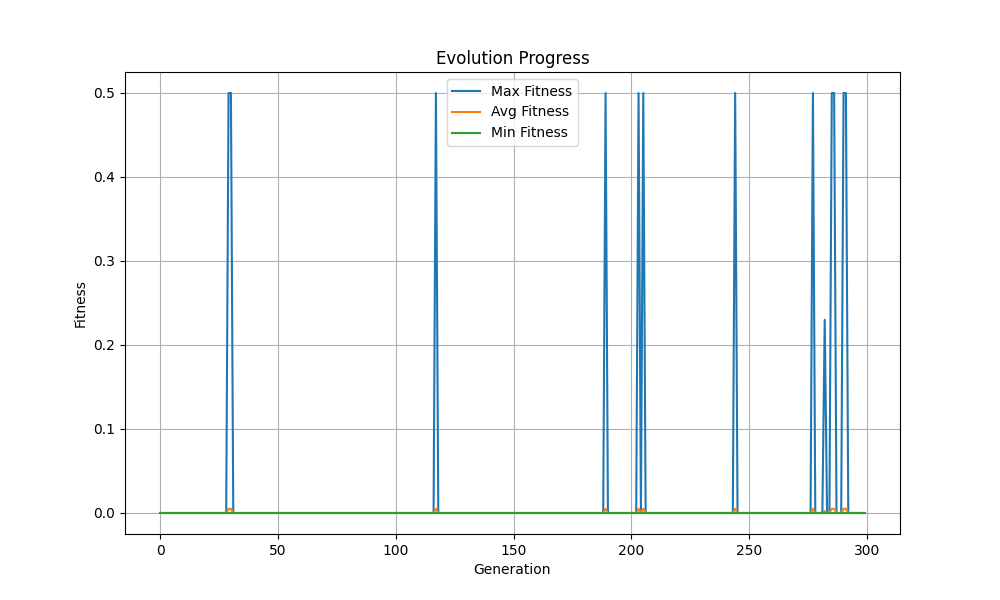
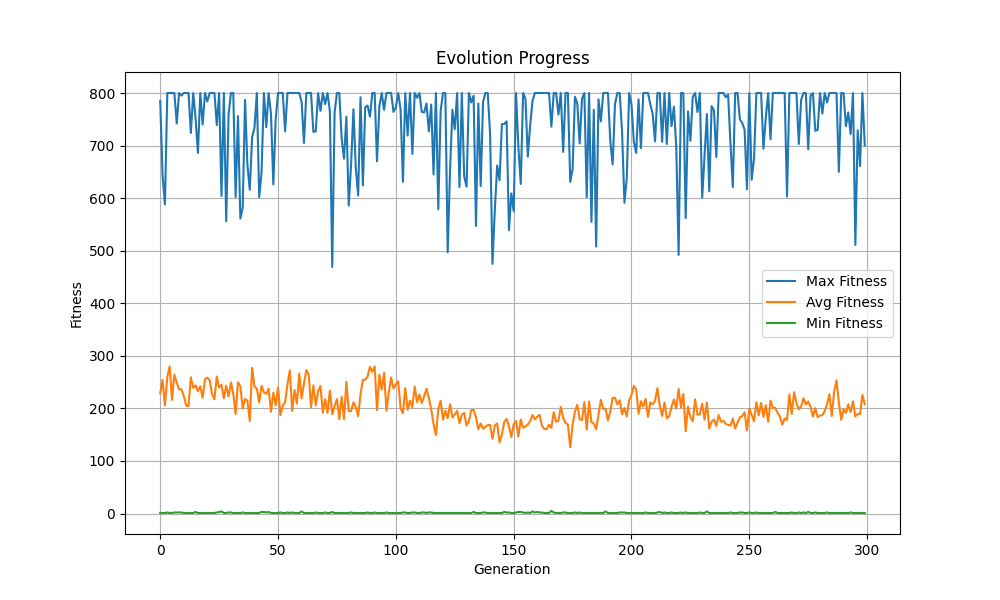
Added markers for tracking trajectory and fixed the movement mechanism

diff --git a/core/simulator.py b/core/simulator.py
@@ -45,7 +45,7 @@ class Simulator:
         self.logger = Logger()
         
         # Camera tracking for following animats in unbounded environment
-        self.camera_offset = [0.0, 0.0]  # Camera offset for following animats
+        self.camera_offset = [0.0, 0.0]
         
         # Initialize pygame if not headless
         if not self.headless:
@@ -76,6 +76,7 @@ class Simulator:
             'min_fitness': []
         }
         self.trajectory_to_draw = [] # For drawing agent trajectory
+        self.capture_markers = []  # For marking food/water capture events [(x, y, type), ...]
         
     def initialize_ga(self):
         """Initialize the genetic algorithm."""
@@ -135,6 +136,24 @@ class Simulator:
                     scaled_points.append((screen_px, screen_py))
             if len(scaled_points) >= 2:
                 pygame.draw.lines(self.screen, (180, 180, 180), False, scaled_points, 2) # Light grey color, 2 pixels thick
+        
+        # Draw capture markers (food/water capture events)
+        for marker in self.capture_markers:
+            marker_x, marker_y, marker_type = marker
+            # Apply camera offset to marker positions
+            screen_mx = int((marker_x - self.camera_offset[0]) * scale_x)
+            screen_my = int((marker_y - self.camera_offset[1]) * scale_y)
+            
+            # Only draw markers that are visible on screen
+            if -20 <= screen_mx <= self.width + 20 and -20 <= screen_my <= self.height + 20:
+                if marker_type == EntityType.FOOD:
+                    # Draw a green X mark for food capture
+                    pygame.draw.line(self.screen, (0, 200, 0), (screen_mx - 5, screen_my - 5), (screen_mx + 5, screen_my + 5), 3)
+                    pygame.draw.line(self.screen, (0, 200, 0), (screen_mx - 5, screen_my + 5), (screen_mx + 5, screen_my - 5), 3)
+                elif marker_type == EntityType.WATER:
+                    # Draw a blue X mark for water capture
+                    pygame.draw.line(self.screen, (0, 0, 200), (screen_mx - 5, screen_my - 5), (screen_mx + 5, screen_my + 5), 3)
+                    pygame.draw.line(self.screen, (0, 0, 200), (screen_mx - 5, screen_my + 5), (screen_mx + 5, screen_my - 5), 3)
         
         # Render entities
         for entity in self.environment.entities:
@@ -589,7 +608,7 @@ class Simulator:
         self.simulation_time = 0
         last_time = time.time()
         self.trajectory_to_draw = [] # Clear previous trajectory
-        MAX_TRAJECTORY_POINTS = 500 # Max points to store for trajectory
+        self.capture_markers = []  # Clear previous capture markers
         
         while self.is_running:
             # Calculate delta time
@@ -607,14 +626,25 @@ class Simulator:
             if not self.handle_events():
                 self.is_running = False
                 break
+            
+            # Store previous battery levels to detect capture events
+            prev_battery1 = animat.batteries[0]
+            prev_battery2 = animat.batteries[1]
                 
             # Update simulation
             self.update(dt)
             
-            # Add current animat position to trajectory
+            # Check for food/water capture events by detecting battery level changes
+            if animat.active and (animat.batteries[0] > prev_battery1 or animat.batteries[1] > prev_battery2):
+                if animat.batteries[0] > prev_battery1:
+                    # Food was captured (battery 1 recharged)
+                    self.capture_markers.append((animat.position[0], animat.position[1], EntityType.FOOD))
+                if animat.batteries[1] > prev_battery2:
+                    # Water was captured (battery 2 recharged)
+                    self.capture_markers.append((animat.position[0], animat.position[1], EntityType.WATER))
+            
+            # Add current animat position to trajectory (no length limit now)
             if animat.active:
-                if len(self.trajectory_to_draw) >= MAX_TRAJECTORY_POINTS:
-                    self.trajectory_to_draw.pop(0) # Remove oldest point
                 self.trajectory_to_draw.append(tuple(animat.position))
 
             # Render
@@ -693,7 +723,7 @@ class Simulator:
         self.simulation_time = 0
         last_time = time.time()
         self.trajectory_to_draw = []  # Clear previous trajectory
-        MAX_TRAJECTORY_POINTS = 500
+        self.capture_markers = []  # Clear previous capture markers
         
         # Use fixed timestep like in the evolution simulation
         SIMULATION_TIMESTEP = 0.1  # Fixed 0.1 second timestep
@@ -705,16 +735,27 @@ class Simulator:
             if not self.handle_events():
                 self.is_running = False
                 break
+            
+            # Store previous battery levels to detect capture events
+            prev_battery1 = animat.batteries[0]
+            prev_battery2 = animat.batteries[1]
                 
             # Update simulation with fixed timestep
             self.environment.update(SIMULATION_TIMESTEP)
             self.simulation_time += SIMULATION_TIMESTEP
             step_count += 1
             
-            # Add current animat position to trajectory
+            # Check for food/water capture events by detecting battery level changes
+            if animat.active and (animat.batteries[0] > prev_battery1 or animat.batteries[1] > prev_battery2):
+                if animat.batteries[0] > prev_battery1:
+                    # Food was captured (battery 1 recharged)
+                    self.capture_markers.append((animat.position[0], animat.position[1], EntityType.FOOD))
+                if animat.batteries[1] > prev_battery2:
+                    # Water was captured (battery 2 recharged)
+                    self.capture_markers.append((animat.position[0], animat.position[1], EntityType.WATER))
+            
+            # Add current animat position to trajectory (no length limit now)
             if animat.active:
-                if len(self.trajectory_to_draw) >= MAX_TRAJECTORY_POINTS:
-                    self.trajectory_to_draw.pop(0)  # Remove oldest point
                 self.trajectory_to_draw.append(tuple(animat.position))
 
             # Render

diff --git a/agents/base_agent.py b/agents/base_agent.py
@@ -437,28 +437,32 @@ class Animat:
             self.active = False
             
     def move(self, dt):
-        """Move the animat based on wheel speeds.
+        """Move the animat based on wheel speeds using differential drive.
         
         Args:
             dt: Time delta in seconds
         """
-        # Calculate forward velocity and rotation
-        forward_speed = (self.wheel_speeds[0] + self.wheel_speeds[1]) / 2.0
-        rotation_speed = (self.wheel_speeds[1] - self.wheel_speeds[0]) / (2.0 * self.radius)
+        # Standard differential drive kinematics
+        left_speed = self.wheel_speeds[0]
+        right_speed = self.wheel_speeds[1]
         
-        # Rotate direction vector
-        angle = rotation_speed * dt
-        cos_angle = np.cos(angle)
-        sin_angle = np.sin(angle)
+        # Forward velocity is average of wheel speeds
+        forward_velocity = (left_speed + right_speed) / 2.0
         
-        new_direction_x = cos_angle * self.direction[0] - sin_angle * self.direction[1]
-        new_direction_y = sin_angle * self.direction[0] + cos_angle * self.direction[1]
+        # Angular velocity is proportional to speed difference
+        # Using the wheelbase (distance between wheels) = 2 * radius
+        wheelbase = 2.0 * self.radius
+        angular_velocity = (right_speed - left_speed) / wheelbase
         
-        self.direction = np.array([new_direction_x, new_direction_y])
-        self.direction /= np.linalg.norm(self.direction)  # Renormalize
+        # Update orientation first
+        current_angle = np.arctan2(self.direction[1], self.direction[0])
+        new_angle = current_angle + angular_velocity * dt
         
-        # Move forward in the direction of travel
-        self.position += forward_speed * dt * self.direction
+        # Update direction vector
+        self.direction = np.array([np.cos(new_angle), np.sin(new_angle)])
+        
+        # Move forward in the new direction
+        self.position += forward_velocity * dt * self.direction
         
     def get_fitness(self):
         """Calculate the fitness of this animat based on survival time.

diff --git a/test_trajectory.py b/test_trajectory.py
@@ -1,0 +1,36 @@
+#!/usr/bin/env python3
+"""
+Test script to demonstrate the new trajectory and capture marker features.
+"""
+
+from core.simulator import Simulator
+from config import settings
+
+def test_trajectory_and_markers():
+    """Test the complete trajectory and capture markers functionality."""
+    
+    # Create a simulator with visualization enabled
+    simulator = Simulator(headless=False)
+    
+    print("Testing Seth's model with complete trajectory and capture markers...")
+    print("- The trajectory will show the entire path without disappearing")
+    print("- Green X marks will appear when food is captured")
+    print("- Blue X marks will appear when water is captured")
+    print("- Press ESC to exit the simulation")
+    
+    # Run Seth's model for 60 seconds with moderate speed
+    simulator.run_seth_model(max_time=60, speed_multiplier=1.0)
+    
+    print(f"Simulation completed!")
+    print(f"Total trajectory points: {len(simulator.trajectory_to_draw)}")
+    print(f"Total capture events: {len(simulator.capture_markers)}")
+    
+    # Count food vs water captures
+    food_captures = sum(1 for marker in simulator.capture_markers if marker[2].name == 'FOOD')
+    water_captures = sum(1 for marker in simulator.capture_markers if marker[2].name == 'WATER')
+    
+    print(f"Food captures: {food_captures}")
+    print(f"Water captures: {water_captures}")
+
+if __name__ == "__main__":
+    test_trajectory_and_markers() 

diff --git a/config/settings.py b/config/settings.py
@@ -19,16 +19,16 @@ TRAP_COUNT = 9
 ANIMAT_SIZE = 5
 SOURCE_SIZE = 16
 ANIMAT_MAX_SPEED = 2.8
-SENSOR_RANGE = 200
+SENSOR_RANGE = 100
 BATTERY_MAX = 200  # Paper specifies maximum and initial level of 200
-BATTERY_DECAY_RATE = 1.0  # Paper specifies decreases by 1 each time step
+BATTERY_DECAY_RATE = 0.5  # Paper specifies decreases by 1 each time step
 ANIMAT_MAX_LIFESPAN = 800 # Maximum simulation steps for fitness evaluation
 
 #Genetic algorithm settings
 POPULATION_SIZE = 100
 MUTATION_RATE = 0.04  # 4% per bit (Note: current mutation is per-gene)
 CROSSOVER_RATE = 0.5
-NUM_GENERATIONS = 1
+NUM_GENERATIONS = 300
 TOURNAMENT_SIZE = 5
 
 #Sensorimotor link settings
@@ -44,4 +44,4 @@ SIMULATION=1000
 RANDOM_SEED = None
 
 SIMULATION_END_PERCENTAGE = 100
-BATTERY_FITNESS_MODE = True
+BATTERY_FITNESS_MODE = False
